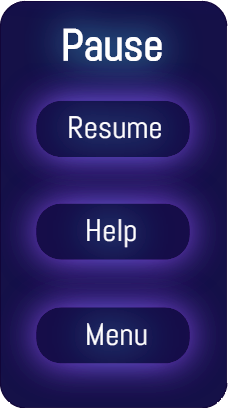
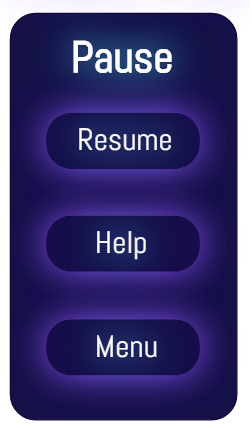
added all screen functionality (pause,levelcomplete,gamecomplete)

diff --git a/js/gamefunctions.js b/js/gamefunctions.js
@@ -12,6 +12,7 @@ function initPlayer() {
     player.animations.add('shootwalk', [25, 26, 27, 28, 29], 10, false);
     player.animations.add('death', [30, 31, 32, 33, 34], 10, false);
 
+    player.bossAlive = true;
     player.dead = 0;
     player.ultimate = 0;
     player.ultimateBar = game.add.sprite(3, 30, 'ultimatebar');
@@ -259,23 +260,17 @@ function killEnemies(body1, body2) {
             if (body1.sprite.enemyType == "persephone") {
                 player.bossAlive = false;
                 body1.sprite.healthbar.kill();
-                setTimeout(function() {
-                    game.state.start('MainMenu');
-                }, 2000);
+                initLevelCompleteMenu();
             }
             if (body1.sprite.enemyType == "cerberus") {
                 player.bossAlive = false;
                 body1.sprite.healthbar.kill();
-                setTimeout(function() {
-                    game.state.start('MainMenu');
-                }, 2000);
+                initLevelCompleteMenu();
             }
             if (body1.sprite.enemy == "hades") {
                 player.bossAlive = false;
                 body1.sprite.healthbar.kill();
-                setTimeout(function() {
-                    game.state.start('MainMenu');
-                }, 2000);
+                initGameCompleteMenu();
             }
             body1.sprite.destroy();
         } else {
@@ -987,24 +982,26 @@ function handleHades(enemy) {
 
 function initPauseMenu() {
     window.onkeydown = function(event) {
-        if (this.game.state.current == "Level1" || this.game.state.current == "Level2" || this.game.state.current == "Level3") {
-            if (event.keyCode == 27) {
-                if (!game.paused) {
-                    game.time.events.add(100, function() {
+        if (player.bossAlive) {
+            if (this.game.state.current == "Level1" || this.game.state.current == "Level2" || this.game.state.current == "Level3") {
+                if (event.keyCode == 27) {
+                    if (!game.paused) {
+                        game.time.events.add(100, function() {
+                            game.paused = !game.paused;
+                        }, this);
+                        pauseMenu = game.add.sprite(game.world.centerX, game.world.centerY, 'pauseMenu');
+                        game.camera.follow(pauseMenu);
+                        pauseMenu.anchor.setTo(.5, .5);
+                        pauseMenu.inputEnabled = true;
+                        game.input.onDown.add(pauseMenuHandler, this);
+                    } else {
                         game.paused = !game.paused;
-                    }, this);
-                    pauseMenu = game.add.sprite(game.world.centerX, game.world.centerY, 'pauseMenu');
-                    game.camera.follow(pauseMenu);
-                    pauseMenu.anchor.setTo(.5, .5);
-                    pauseMenu.inputEnabled = true;
-                    game.input.onDown.add(pauseMenuHandler, this);
-                } else {
-                    game.paused = !game.paused;
-                    game.camera.follow(player);
-                    pauseMenu.destroy();
-                    controlsMenu.destroy();
-                    game.input.onDown.remove(pauseMenuHandler, this);
-                    game.input.onDown.remove(controlsMenuHandler, this);
+                        game.camera.follow(player);
+                        pauseMenu.destroy();
+                        controlsMenu.destroy();
+                        game.input.onDown.remove(pauseMenuHandler, this);
+                        game.input.onDown.remove(controlsMenuHandler, this);
+                    }
                 }
             }
         }
@@ -1017,7 +1014,7 @@ function pauseMenuHandler(pointer, event) {
     var tileX = Math.floor(pointer.worldX);
     var tileY = Math.floor(pointer.worldY);
     //Resume
-    if (tileX < 866 && tileX > 730 && tileY < 750 && tileY > 700) {
+    if (tileX < 870 && tileX > 720 && tileY < 755 && tileY > 700) {
         game.paused = !game.paused;
         button.play();
         game.camera.follow(player);
@@ -1025,14 +1022,14 @@ function pauseMenuHandler(pointer, event) {
         game.input.onDown.remove(pauseMenuHandler, this);
     }
     //Help
-    if (tileX < 866 && tileX > 730 && tileY < 850 && tileY > 800) {
+    if (tileX < 870 && tileX > 720 && tileY < 850 && tileY > 805) {
         button.play();
         pauseMenu.destroy();
         game.input.onDown.remove(pauseMenuHandler, this);
         initControlsMenu();
     }
     //Menu
-    if (tileX < 866 && tileX > 730 && tileY < 955 && tileY > 905) {
+    if (tileX < 870 && tileX > 720 && tileY < 960 && tileY > 905) {
         game.paused = !game.paused;
         button.play();
         this.game.state.start('MainMenu');
@@ -1052,7 +1049,7 @@ function controlsMenuHandler(pointer, event) {
     var tileX = Math.floor(pointer.worldX);
     var tileY = Math.floor(pointer.worldY);
     //Back
-    if (tileX < 645 && tileX > 555 && tileY < 684 && tileY > 650) {
+    if (tileX < 600 && tileX > 490 && tileY < 660 && tileY > 606) {
         button.play();
         controlsMenu.destroy();
         game.input.onDown.remove(levelCompleteMenuHandler, this);
@@ -1064,10 +1061,15 @@ function controlsMenuHandler(pointer, event) {
 }
 
 function initLevelCompleteMenu() {
+    game.time.events.add(100, function() {
+        game.paused = !game.paused;
+    }, this);
     levelCompleteMenu = game.add.sprite(game.world.centerX, game.world.centerY, 'levelCompleteMenu');
+    game.camera.follow(levelCompleteMenu);
     levelCompleteMenu.anchor.setTo(.5, .5);
     levelCompleteMenu.inputEnabled = true;
     game.input.onDown.add(levelCompleteMenuHandler, this);
+
 }
 
 function levelCompleteMenuHandler(pointer, event) {
@@ -1075,5 +1077,53 @@ function levelCompleteMenuHandler(pointer, event) {
     var tileworldY = pointer.worldY - (pointer.worldY);
     var tileX = Math.floor(pointer.worldX);
     var tileY = Math.floor(pointer.worldY);
+    //Next Level
+    if (tileX < 875 && tileX > 726 && tileY < 850 && tileY > 800) {
+        game.paused = !game.paused;
+        button.play();
+        game.input.onDown.remove(levelCompleteMenuHandler, this);
+        switch (this.game.state.current) {
+            case "Level1":
+                button.play();
+                this.game.state.start('Level2');
+                break;
+            case "Level2":
+                button.play();
+                this.game.state.start('Level3');
+                break;
+            default:
+        }
+    }
+    //Menu
+    if (tileX < 875 && tileX > 726 && tileY < 940 && tileY > 880) {
+        game.paused = !game.paused;
+        button.play();
+        game.input.onDown.remove(levelCompleteMenuHandler, this);
+        this.game.state.start('MainMenu');
+    }
+}
+
+function initGameCompleteMenu() {
+    game.time.events.add(100, function() {
+        game.paused = !game.paused;
+    }, this);
+    gameCompleteMenu = game.add.sprite(game.world.centerX, game.world.centerY, 'gameCompleteMenu');
+    game.camera.follow(gameCompleteMenu);
+    gameCompleteMenu.anchor.setTo(.5, .5);
+    gameCompleteMenu.inputEnabled = true;
+    game.input.onDown.add(gameCompleteMenuHandler, this);
+}
+
+function gameCompleteMenuHandler() {
+    var tileworldX = pointer.worldX - (pointer.worldX);
+    var tileworldY = pointer.worldY - (pointer.worldY);
+    var tileX = Math.floor(pointer.worldX);
+    var tileY = Math.floor(pointer.worldY);
     console.log(tileX + "," + tileY);
+    if (tileX < 870 && tileX > 725 && tileY < 890 && tileY > 840) {
+        game.paused = !game.paused;
+        button.play();
+        this.game.state.start('MainMenu');
+        game.input.onDown.remove(gameCompleteMenuHandler, this);
+    }
 }

diff --git a/js/Screens/Preload.js b/js/Screens/Preload.js
@@ -3,19 +3,23 @@ Preload = function() {};
 
 Preload.prototype = {
     preload: function() {
-        this.splash = this.add.sprite(0, 0, 'splash');
-        this.splash.width = 1200;
-        this.splash.height = 800;
+        game.splash = game.add.sprite(0, 0, 'splash');
+        game.splash.width = 1200;
+        game.splash.height = 800;
 
         game.load.audio('bg_music', 'assets/music/parry_pop_sonata.wav');
 
-        this.load.image('about', 'assets/UI/about.png');
-        this.load.image('levels', 'assets/UI/levels.png');
-        this.load.image('controls', 'assets/UI/controls.png');
-        this.load.image('menu', 'assets/UI/menu.png');
+        //Menus
+        game.load.image('about', 'assets/UI/about.png');
+        game.load.image('levels', 'assets/UI/levels.png');
+        game.load.image('controls', 'assets/UI/controls.png');
+        game.load.image('menu', 'assets/UI/menu.png');
         game.load.image('pauseMenu', 'assets/UI/pausemenu.png');
         game.load.image('controlsMenu', 'assets/UI/controlsmenu.png');
+        game.load.image('levelCompleteMenu', 'assets/UI/levelcomplete.png');
+        game.load.image('gameCompleteMenu', 'assets/UI/gamecomplete.png');
 
+        //Player
         game.load.spritesheet('player', 'assets/player.png', 64, 64);
         game.load.image('bullet', 'assets/other_sprites/bullet.png');
         game.load.image('heart', 'assets/other_sprites/heart.png');
@@ -23,6 +27,7 @@ Preload.prototype = {
         game.load.image('ultimatebar', 'assets/other_sprites/ultimatebar.png');
         game.load.image('ultimatebarInvert', 'assets/other_sprites/ultimatebarinvert.png');
         game.load.physics('data', 'assets/data.json');
+        
         //level 1
         game.load.tilemap('cerberusMap', 'assets/Levels/Lava.json', null, Phaser.Tilemap.TILED_JSON);
         game.load.image('cerberusGameTiles', 'assets/Levels/Fire.png');
@@ -42,6 +47,8 @@ Preload.prototype = {
         game.load.spritesheet('tentacles', 'assets/other_sprites/tentacle.png', 32, 32);
 
         //level 3
+        game.load.tilemap('hadesMap', 'assets/Levels/Darkness.json', null, Phaser.Tilemap.TILED_JSON);
+        game.load.image('hadesGameTiles', 'assets/Levels/Darkness.png');
         game.load.spritesheet('hades', 'assets/other_sprites/hades.png', 64, 64);
         game.load.spritesheet('voidTower', 'assets/other_sprites/void_tower.png', 64, 64);
         game.load.spritesheet('glitchSlime', 'assets/other_sprites/glitch_slime.png', 32, 32);
@@ -73,7 +80,6 @@ Preload.prototype = {
         music.loop = true;
         music.volume = 0.5;
         music.play();
-        console.log(music.volume);
         setTimeout(function() {
             game.state.start('MainMenu');
         }, 2000);

diff --git a/js/Level3.js b/js/Level3.js
@@ -32,10 +32,10 @@ Level3.prototype = {
         game.canvas.oncontextmenu = function(e) {
             e.preventDefault();
         }
-
-        var map = game.add.tilemap('persephoneMap');
+        
+        var map = game.add.tilemap('hadesMap');
         //the first parameter is the tileset name as specified in Tiled, the second is the key to the asset
-        map.addTilesetImage('Water', 'persephoneGameTiles');
+        map.addTilesetImage('Darkness', 'hadesGameTiles');
         //Create Layers
         var backgroundlayer = map.createLayer('Background');
         backgroundlayer.resizeWorld();
